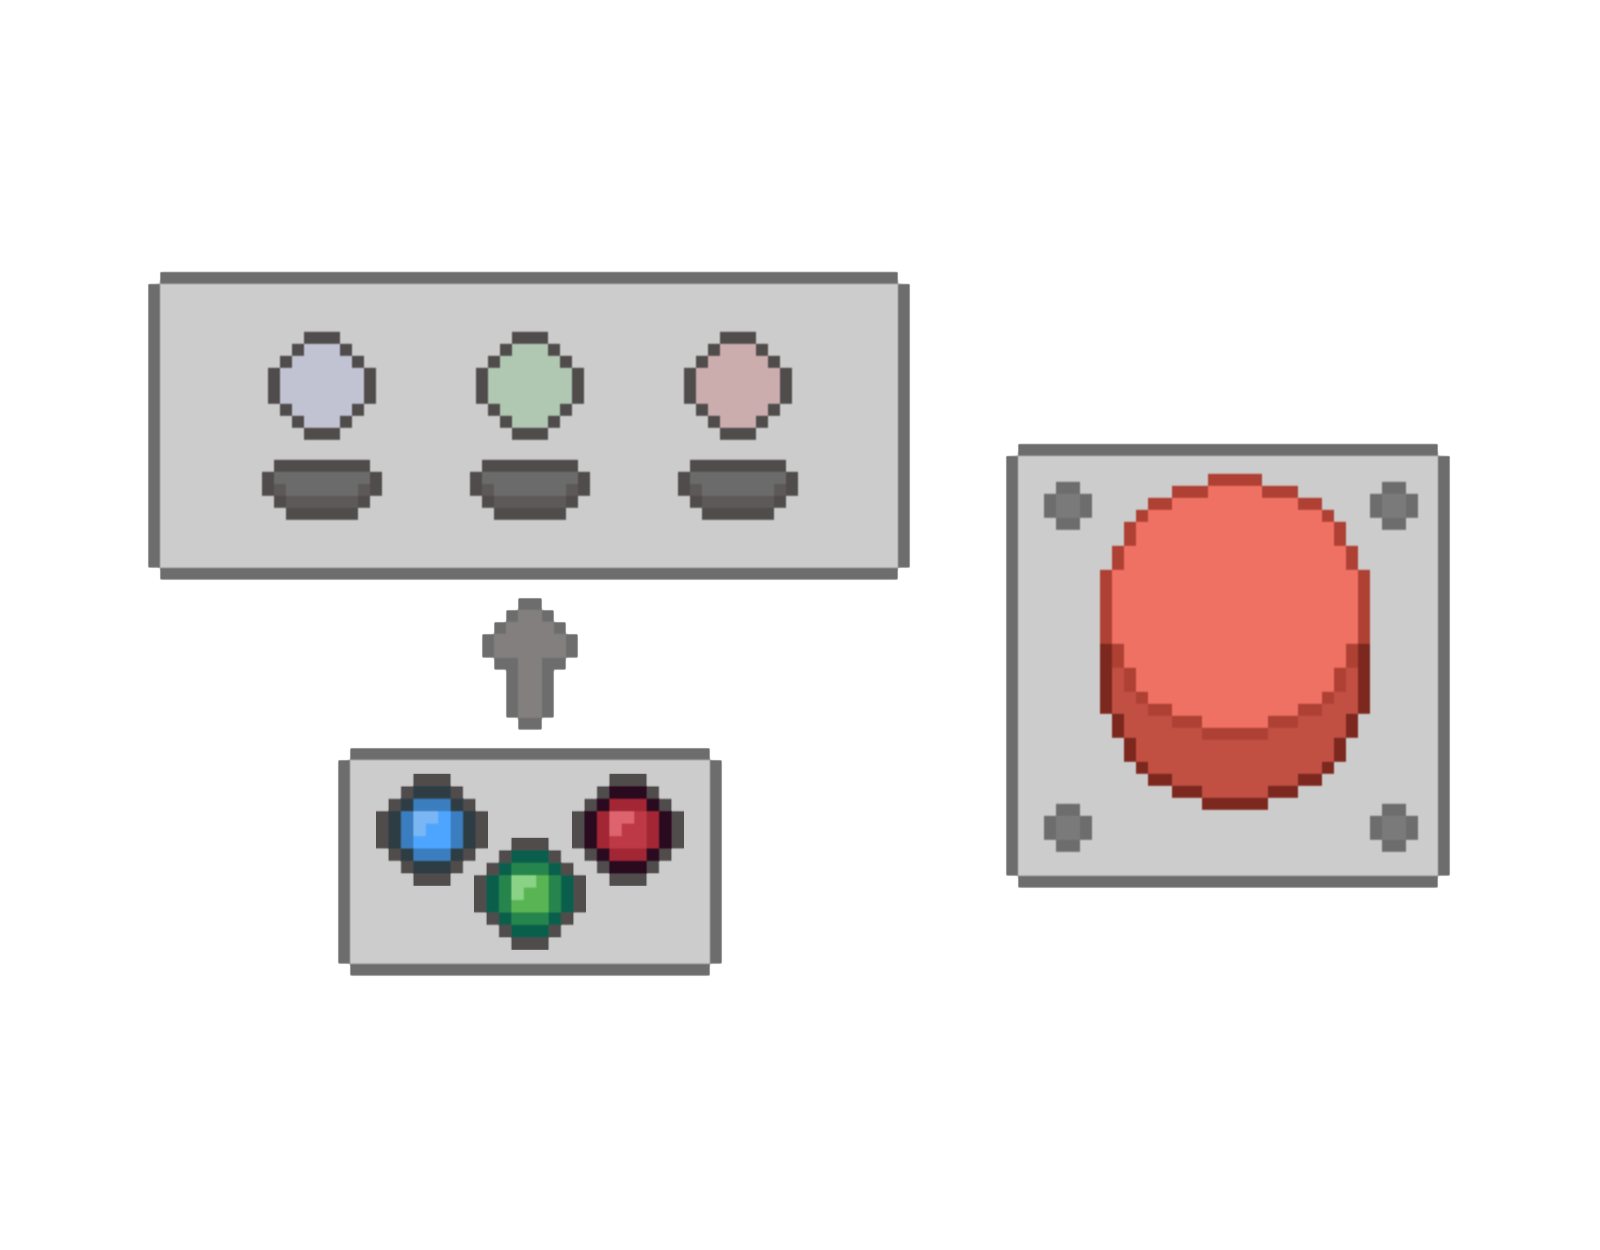
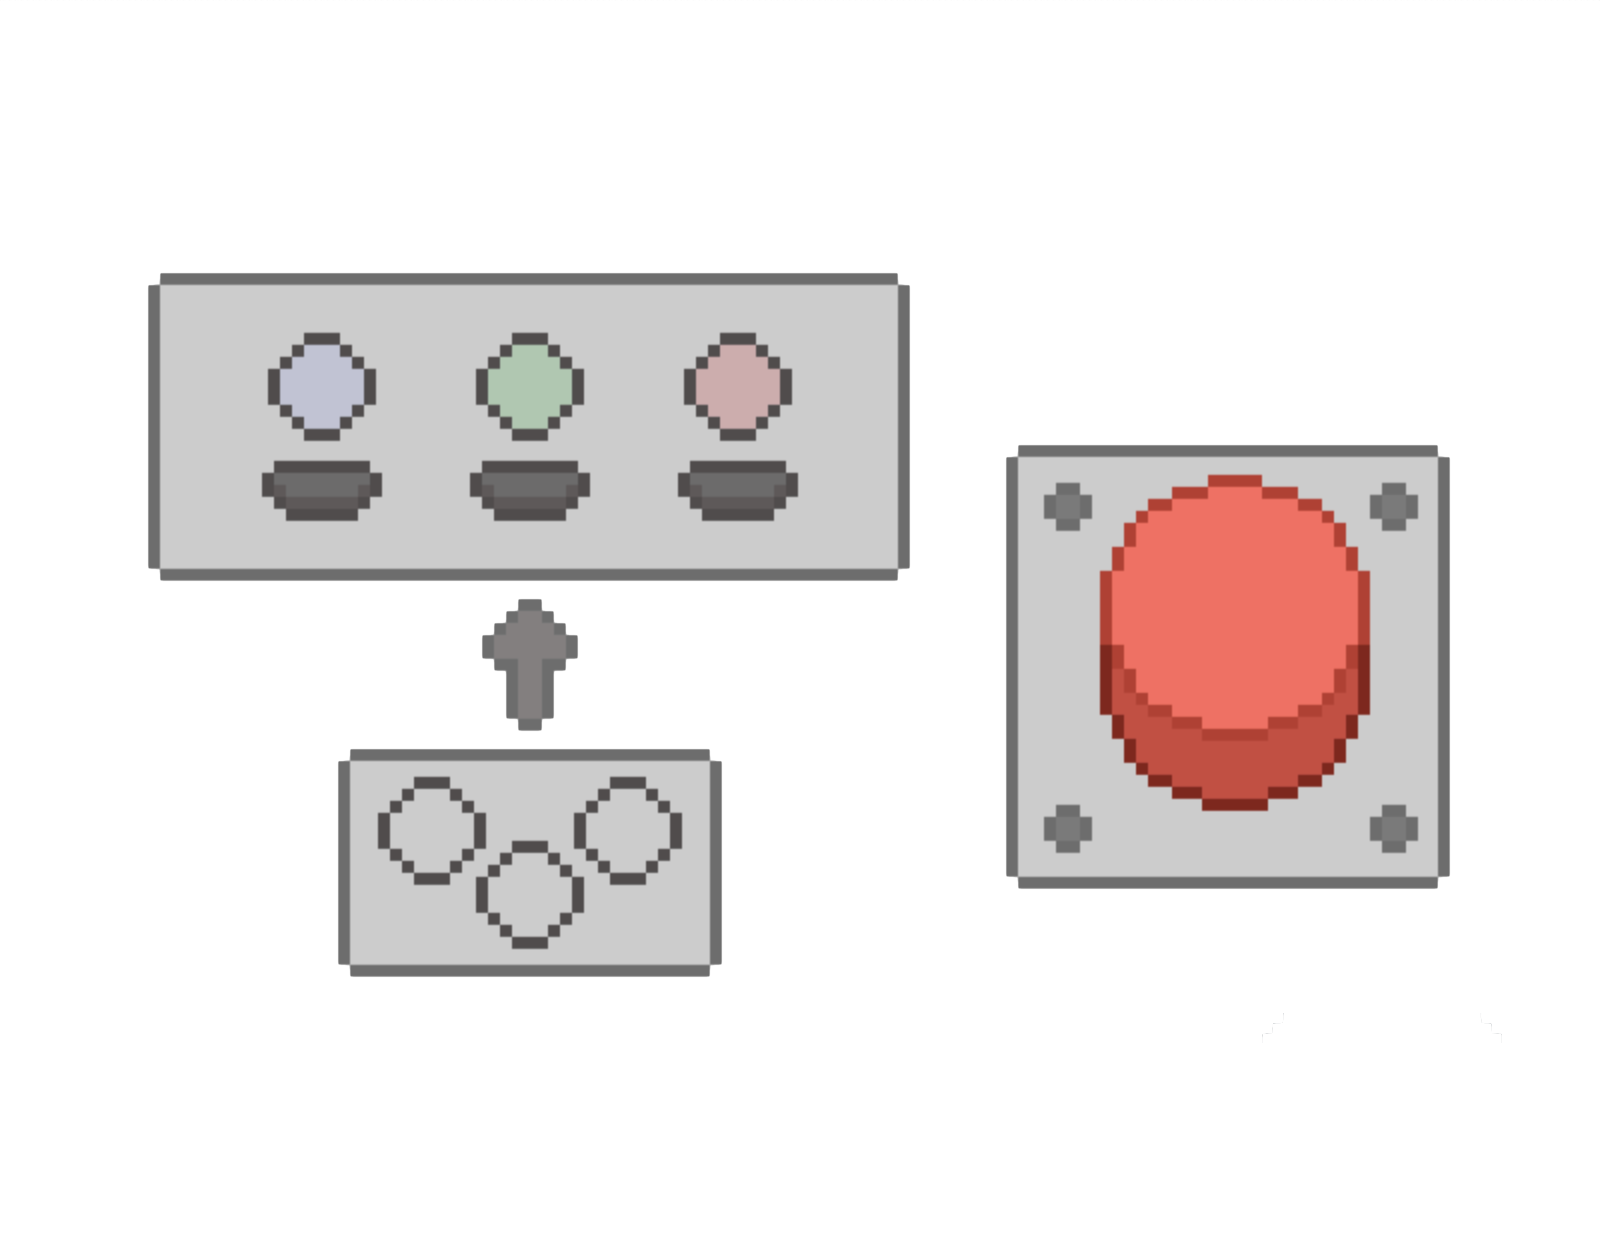
Feature: Made terminal background be dynamic behind GPT

Changed region(s): [[0.2188, 0.624, 0.4375, 0.78], [0.6562, 0.3432, 0.875, 0.3744]]

diff --git a/src/main/java/nz/ac/auckland/se206/controllers/ControllerMethods.java b/src/main/java/nz/ac/auckland/se206/controllers/ControllerMethods.java
@@ -49,6 +49,9 @@ public class ControllerMethods {
   protected static ObjectProperty<Image> layerOneProperty = new SimpleObjectProperty<>(null);
   protected static ObjectProperty<Image> layerTwoProperty = new SimpleObjectProperty<>(null);
   protected static ObjectProperty<Image> layerThreeProperty = new SimpleObjectProperty<>(null);
+  protected static ObjectProperty<Image> layerFourProperty = new SimpleObjectProperty<>(null);
+  protected static ObjectProperty<Image> layerFiveProperty = new SimpleObjectProperty<>(null);
+  protected static ObjectProperty<Image> layerSixProperty = new SimpleObjectProperty<>(null);
 
   // Object properties for trees images
   protected static ObjectProperty<Image> treesImageProperty = new SimpleObjectProperty<>(null);
@@ -465,6 +468,42 @@ public class ControllerMethods {
   protected void hideAllLayers() {
     layerOneProperty.set(null);
     layerTwoProperty.set(null);
+    layerThreeProperty.set(null);
+    layerFourProperty.set(null);
+    layerFiveProperty.set(null);
+    layerSixProperty.set(null);
+  }
+
+  /** Method for adding the bottom blue orb behind GPT in terminal */
+  protected void bottomBlueOrbOpacity() {
+    layerOneProperty.set(new Image(getClass().getResourceAsStream("/images/bottomBlueOrb.png")));
+  }
+
+  /** Method for adding the bottom green orb behind GPT in terminal */
+  protected void bottomGreenOrbOpacity() {
+    layerTwoProperty.set(new Image(getClass().getResourceAsStream("/images/bottomGreenOrb.png")));
+  }
+
+  /** Method for adding the bottom red orb behind GPT in terminal */
+  protected void bottomRedOrbOpacity() {
+    layerThreeProperty.set(new Image(getClass().getResourceAsStream("/images/bottomRedOrb.png")));
+  }
+
+  /** Method for adding the top blue orb behind GPT in terminal */
+  protected void topBlueOrbOpacity() {
+    layerFourProperty.set(new Image(getClass().getResourceAsStream("/images/topBlueOrb.png")));
+    layerOneProperty.set(null);
+  }
+
+  /** Method for adding the top green orb behind GPT in terminal */
+  protected void topGreenOrbOpacity() {
+    layerFiveProperty.set(new Image(getClass().getResourceAsStream("/images/topGreenOrb.png")));
+    layerTwoProperty.set(null);
+  }
+
+  /** Method for adding the top red orb behind GPT in terminal */
+  protected void topRedOrbOpacity() {
+    layerSixProperty.set(new Image(getClass().getResourceAsStream("/images/topRedOrb.png")));
     layerThreeProperty.set(null);
   }
 

diff --git a/src/main/java/nz/ac/auckland/se206/controllers/ChatController.java b/src/main/java/nz/ac/auckland/se206/controllers/ChatController.java
@@ -48,10 +48,12 @@ public class ChatController extends ControllerMethods {
 
   // Background
   @FXML private ImageView background;
-  @FXML private ImageView plankOne;
-  @FXML private ImageView plankTwo;
-  @FXML private ImageView plankThree;
-  @FXML private ImageView redOrbInChest;
+  @FXML private ImageView layerOne;
+  @FXML private ImageView layerTwo;
+  @FXML private ImageView layerThree;
+  @FXML private ImageView layerFour;
+  @FXML private ImageView layerFive;
+  @FXML private ImageView layerSix;
 
   // Inventory Items
   @FXML private ImageView fishingRodIcon;
@@ -96,10 +98,12 @@ public class ChatController extends ControllerMethods {
 
     // Bind the background to its image properties
     background.imageProperty().bind(ControllerMethods.backgroundImageProperty);
-    plankOne.imageProperty().bind(ControllerMethods.layerOneProperty);
-    plankTwo.imageProperty().bind(ControllerMethods.layerTwoProperty);
-    plankThree.imageProperty().bind(ControllerMethods.layerThreeProperty);
-    redOrbInChest.imageProperty().bind(ControllerMethods.layerOneProperty);
+    layerOne.imageProperty().bind(ControllerMethods.layerOneProperty);
+    layerTwo.imageProperty().bind(ControllerMethods.layerTwoProperty);
+    layerThree.imageProperty().bind(ControllerMethods.layerThreeProperty);
+    layerFour.imageProperty().bind(ControllerMethods.layerFourProperty);
+    layerFive.imageProperty().bind(ControllerMethods.layerFiveProperty);
+    layerSix.imageProperty().bind(ControllerMethods.layerSixProperty);
 
     // Randomly select either cabinet or rug as the word to guess:
     String wordToGuess;

diff --git a/src/main/java/nz/ac/auckland/se206/controllers/TerminalController.java b/src/main/java/nz/ac/auckland/se206/controllers/TerminalController.java
@@ -316,11 +316,27 @@ public class TerminalController extends ControllerMethods {
    */
   @FXML
   private void gameMasterOnClick(MouseEvent event) {
+    // Initally show all orbs at the bottom
     hideAllLayers();
-    if (GameState.isOrbsPlaced) {
-      setCompletedOrbMiniOpacity();
-    } else {
-      setOrbMiniOpacity();
+    setOrbMiniOpacity();
+    bottomBlueOrbOpacity();
+    bottomGreenOrbOpacity();
+    bottomRedOrbOpacity();
+
+    // If an orb has been correctly placed, show it at the top
+    // Blue orb
+    if (blueOrbImage.isCorrectPosition()) {
+      topBlueOrbOpacity();
+    }
+
+    // Red orb
+    if (redOrbImage.isCorrectPosition()) {
+      topRedOrbOpacity();
+    }
+
+    // Green rob
+    if (greenOrbImage.isCorrectPosition()) {
+      topGreenOrbOpacity();
     }
 
     // Store the current scene in the scene stack:
